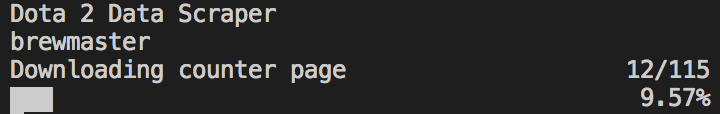
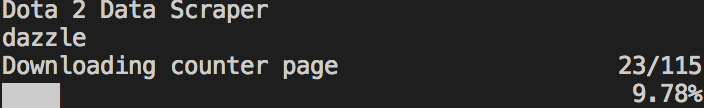
Fixed the progress bar not working properly, added more screenshots

diff --git a/Tugas1/src/dotabuffscrapper.py b/Tugas1/src/dotabuffscrapper.py
@@ -16,11 +16,7 @@ url_dota_items = "https://www.dotabuff.com/items"
 
 url_scrape_state = "state.json"
 
-path = sys.argv[0].split("/")
-path.pop()
-path.pop()
-path.append("data")
-url_data_dir = "/".join(path)
+url_data_dir = "data/"
 
 url_raw_dir = os.path.join(url_data_dir, "raw/")
 url_raw_heroes = os.path.join(url_raw_dir, "heroes.html")
@@ -109,7 +105,6 @@ while running:
                 display.show([title, "Initializing"])
                 # Clean data
                 if os.path.isdir(url_data_dir):
-                    log("Cleaning previous scrap data")
                     for filename in os.listdir(url_data_dir):
                         file_path = os.path.join(url_data_dir, filename)
                         try:
@@ -135,8 +130,7 @@ while running:
         elif state["state"] == 0:
             # Scrape Heroes
             if state["status"] == 0:
-                display.show([title, "Scrapping heroes url list"])
-                log("Scrapping heroes hyperlink from {}".format(url_dota_heroes))
+                display.show([title, "Scrapping heroes url list"], "-", 0)
                 if save_url(url_dota_heroes, url_raw_heroes):
                     with open(url_raw_heroes, 'r') as f:
                         html = f.read()
@@ -178,7 +172,7 @@ while running:
                     filename_counters = os.path.join(f_dir, "counters.html")
                     filename_scrapped = os.path.join(url_scrapped_heroes_dir, name+".json")
                     if state["status"] == 0:
-                        display.show([title, name], "Downloading hero page", index/max_entries, index, max_entries)
+                        display.show([title, name], "Downloading hero page", (index * 4 + state["status"]) / (max_entries * 8), index, max_entries)
                         # Save the main hero page.
                         save_url(url, filename)
                         tries = 0
@@ -186,7 +180,7 @@ while running:
                         save_state()
                         to_delay = default_delay
                     elif state["status"] == 1:
-                        display.show([title, name], "Downloading item page", index/max_entries, index, max_entries)
+                        display.show([title, name], "Downloading item page", (index * 4 + state["status"]) / (max_entries * 8), index, max_entries)
                         # Save the items page.
                         save_url(url_items, filename_items)
                         tries = 0
@@ -194,7 +188,7 @@ while running:
                         save_state()
                         to_delay = default_delay
                     elif state["status"] == 2:
-                        display.show([title, name], "Downloading counter page", index/max_entries, index, max_entries)
+                        display.show([title, name], "Downloading counter page", (index * 4 + state["status"]) / (max_entries * 8), index, max_entries)
                         # Save the counters page.
                         save_url(url_counters, filename_counters)
                         tries = 0
@@ -202,7 +196,7 @@ while running:
                         save_state()
                         to_delay = default_delay
                     elif state["status"] == 3:
-                        display.show([title, name], "Scrapping pages", index/max_entries, index, max_entries)
+                        display.show([title, name], "Scrapping pages", (index * 4 + state["status"]) / (max_entries * 8), index, max_entries)
                         # Start scraping.
                         with open(filename, 'r') as f:
                             page = f.read()
@@ -223,7 +217,7 @@ while running:
         elif state["state"] == 2:
             # Scrape Items
             if state["status"] == 0:
-                display.show([title, "Scrapping items url list"])
+                display.show([title, "Scrapping items url list"], "-", 0.5)
                 if save_url(url_dota_items, url_raw_items):
                     with open(url_raw_items, 'r') as f:
                         html = f.read()
@@ -261,7 +255,7 @@ while running:
                     filename = os.path.join(f_dir, "item.html")
                     filename_scrapped = os.path.join(url_scrapped_items_dir, name+".json")
                     if state["status"] == 0:
-                        display.show([title, name], "Downloading item page", index/max_entries, index, max_entries)
+                        display.show([title, name], "Downloading item page", (index * 2 + state["status"]) / (max_entries * 4) + 0.5, index, max_entries)
                         # Save the item page.
                         save_url(url, filename)
                         tries = 0
@@ -269,7 +263,7 @@ while running:
                         save_state()
                         to_delay = default_delay
                     elif state["status"] == 1:
-                        display.show([title, name], "Scrapping item page", index/max_entries, index, max_entries)
+                        display.show([title, name], "Scrapping item page", (index * 2 + state["status"]) / (max_entries * 4) + 0.5, index, max_entries)
                         # Start scraping.
                         with open(filename, 'r') as f:
                             page = f.read()

diff --git a/Tugas1/src/display.py b/Tugas1/src/display.py
@@ -3,8 +3,7 @@ import math
 
 def progress_bar(progress, width):
     blocks = [" ", "▏", "▎", "▍", "▌", "▋", "▊", "▉", "█"]
-    total = progress * width
-    count = total
+    count = progress * width
     text = ""
     size = len(blocks)
     top = size - 1
@@ -13,10 +12,10 @@ def progress_bar(progress, width):
             count -= 1
             text += blocks[top]
         else:
+            text += blocks[int(round(count * top))]
             count = 0
-            text += blocks[round(count * top)]
-    for _ in range(int(total), width):
-        text += " "
+    for _ in range(len(text), width):
+        text += blocks[0]
     return text
 
 displayed = False
@@ -62,7 +61,7 @@ def show(text, name="-", progress=-1, current=-1, max=-1, max_width=50):
         t_progress = "{:.2f}%".format(progress * 100)
         while len(t_progress) < 7:
             t_progress = " " + t_progress
-    offset = len(t_progress) + 2
+    offset = len(t_progress) + 1
     if offset > width:
         print(t_progress)
     else:
